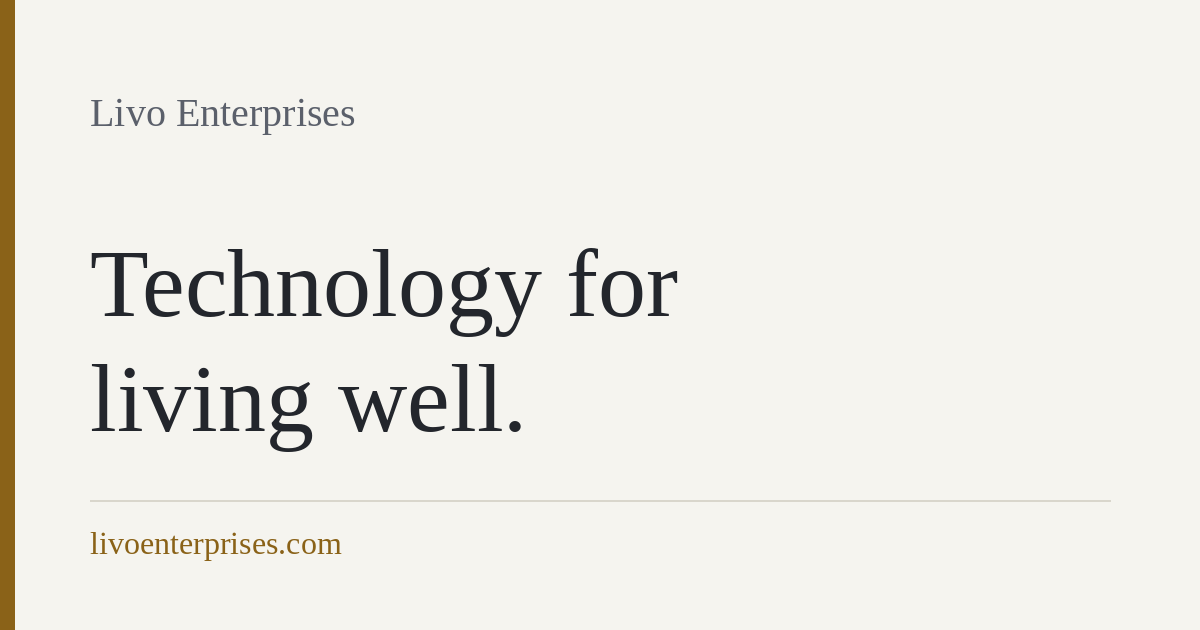
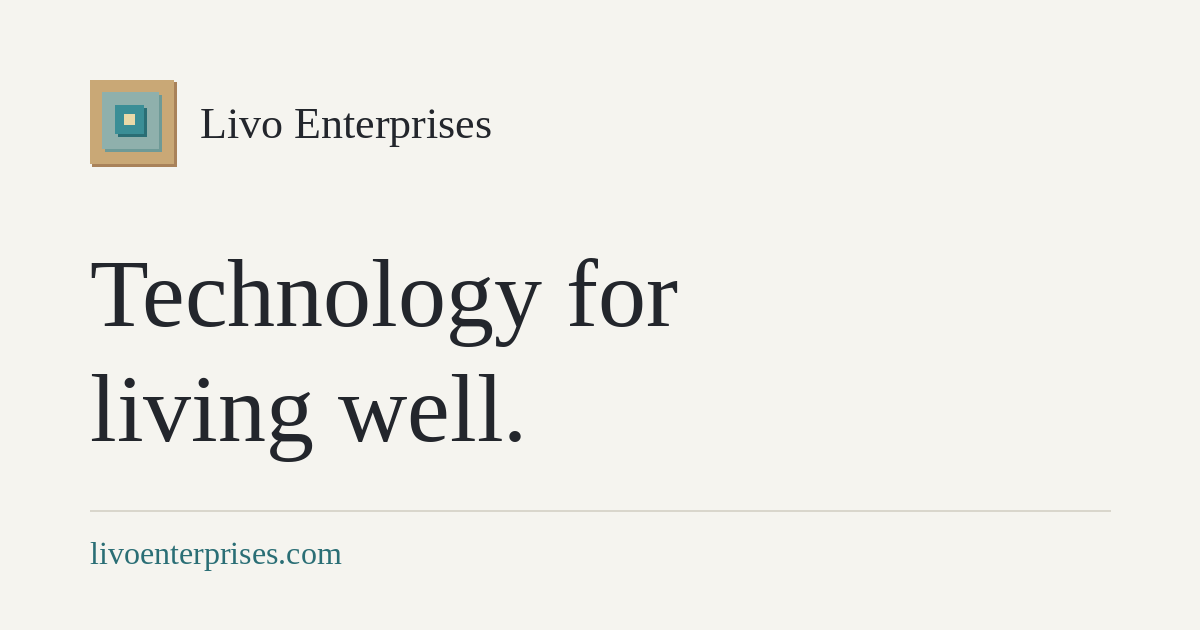
Add files via upload
Added Logo

diff --git a/index.html b/index.html
@@ -14,19 +14,21 @@
   <meta property="og:image" content="https://livoenterprises.com/assets/social-card.png">
   <meta name="twitter:card" content="summary_large_image">
   <link rel="icon" href="/assets/favicon.svg" type="image/svg+xml">
+  <link rel="icon" href="/assets/favicon-32.png" sizes="32x32" type="image/png">
+  <link rel="apple-touch-icon" href="/assets/apple-touch-icon.png">
   <link rel="alternate" type="application/rss+xml" title="Livo Enterprises — Notes" href="/feed.xml">
   <link rel="preconnect" href="https://fonts.googleapis.com">
   <link rel="preconnect" href="https://fonts.gstatic.com" crossorigin>
   <link href="https://fonts.googleapis.com/css2?family=Newsreader:ital,opsz,wght@0,6..72,400;0,6..72,500;1,6..72,400&display=swap" rel="stylesheet">
   <link rel="stylesheet" href="/assets/style.css">
   <script type="application/ld+json">
-  {"@context":"https://schema.org","@type":"Organization","name":"Livo Enterprises","legalName":"Livo Enterprises LLC","url":"https://livoenterprises.com","logo":"https://livoenterprises.com/assets/social-card.png","slogan":"Technology for living well","founder":{"@type":"Person","name":"Ken Jones"},"email":"support@livoenterprises.com"}
+  {"@context":"https://schema.org","@type":"Organization","name":"Livo Enterprises","legalName":"Livo Enterprises LLC","url":"https://livoenterprises.com","logo":"https://livoenterprises.com/assets/icon-512.png","slogan":"Technology for living well","founder":{"@type":"Person","name":"Ken Jones"},"email":"support@livoenterprises.com"}
   </script>
 </head>
 <body>
 <header class="site">
   <div class="wrap">
-    <a class="wordmark" href="/">Livo Enterprises</a>
+    <a class="wordmark" href="/"><img src="/assets/livo-mark.svg" alt="" width="26" height="26">Livo Enterprises</a>
     <nav class="site" aria-label="Site">
       <a href="/livocapsule.html">LivoCapsule</a>
       <a href="/about.html">About</a>

diff --git a/livocapsule.html b/livocapsule.html
@@ -14,6 +14,8 @@
   <meta property="og:image" content="https://livoenterprises.com/assets/social-card.png">
   <meta name="twitter:card" content="summary_large_image">
   <link rel="icon" href="/assets/favicon.svg" type="image/svg+xml">
+  <link rel="icon" href="/assets/favicon-32.png" sizes="32x32" type="image/png">
+  <link rel="apple-touch-icon" href="/assets/apple-touch-icon.png">
   <link rel="preconnect" href="https://fonts.googleapis.com">
   <link rel="preconnect" href="https://fonts.gstatic.com" crossorigin>
   <link href="https://fonts.googleapis.com/css2?family=Newsreader:ital,opsz,wght@0,6..72,400;0,6..72,500;1,6..72,400&display=swap" rel="stylesheet">
@@ -22,7 +24,7 @@
 <body>
 <header class="site">
   <div class="wrap">
-    <a class="wordmark" href="/">Livo Enterprises</a>
+    <a class="wordmark" href="/"><img src="/assets/livo-mark.svg" alt="" width="26" height="26">Livo Enterprises</a>
     <nav class="site" aria-label="Site">
       <a href="/livocapsule.html" aria-current="page">LivoCapsule</a>
       <a href="/about.html">About</a>

diff --git a/privacy.html b/privacy.html
@@ -14,6 +14,8 @@
   <meta property="og:image" content="https://livoenterprises.com/assets/social-card.png">
   <meta name="twitter:card" content="summary_large_image">
   <link rel="icon" href="/assets/favicon.svg" type="image/svg+xml">
+  <link rel="icon" href="/assets/favicon-32.png" sizes="32x32" type="image/png">
+  <link rel="apple-touch-icon" href="/assets/apple-touch-icon.png">
   <link rel="preconnect" href="https://fonts.googleapis.com">
   <link rel="preconnect" href="https://fonts.gstatic.com" crossorigin>
   <link href="https://fonts.googleapis.com/css2?family=Newsreader:ital,opsz,wght@0,6..72,400;0,6..72,500;1,6..72,400&display=swap" rel="stylesheet">
@@ -22,7 +24,7 @@
 <body>
 <header class="site">
   <div class="wrap">
-    <a class="wordmark" href="/">Livo Enterprises</a>
+    <a class="wordmark" href="/"><img src="/assets/livo-mark.svg" alt="" width="26" height="26">Livo Enterprises</a>
     <nav class="site" aria-label="Site">
       <a href="/livocapsule.html">LivoCapsule</a>
       <a href="/about.html">About</a>

diff --git a/support.html b/support.html
@@ -14,6 +14,8 @@
   <meta property="og:image" content="https://livoenterprises.com/assets/social-card.png">
   <meta name="twitter:card" content="summary_large_image">
   <link rel="icon" href="/assets/favicon.svg" type="image/svg+xml">
+  <link rel="icon" href="/assets/favicon-32.png" sizes="32x32" type="image/png">
+  <link rel="apple-touch-icon" href="/assets/apple-touch-icon.png">
   <link rel="preconnect" href="https://fonts.googleapis.com">
   <link rel="preconnect" href="https://fonts.gstatic.com" crossorigin>
   <link href="https://fonts.googleapis.com/css2?family=Newsreader:ital,opsz,wght@0,6..72,400;0,6..72,500;1,6..72,400&display=swap" rel="stylesheet">
@@ -22,7 +24,7 @@
 <body>
 <header class="site">
   <div class="wrap">
-    <a class="wordmark" href="/">Livo Enterprises</a>
+    <a class="wordmark" href="/"><img src="/assets/livo-mark.svg" alt="" width="26" height="26">Livo Enterprises</a>
     <nav class="site" aria-label="Site">
       <a href="/livocapsule.html">LivoCapsule</a>
       <a href="/about.html">About</a>

diff --git a/about.html b/about.html
@@ -14,6 +14,8 @@
   <meta property="og:image" content="https://livoenterprises.com/assets/social-card.png">
   <meta name="twitter:card" content="summary_large_image">
   <link rel="icon" href="/assets/favicon.svg" type="image/svg+xml">
+  <link rel="icon" href="/assets/favicon-32.png" sizes="32x32" type="image/png">
+  <link rel="apple-touch-icon" href="/assets/apple-touch-icon.png">
   <link rel="alternate" type="application/rss+xml" title="Livo Enterprises — Notes" href="/feed.xml">
   <link rel="preconnect" href="https://fonts.googleapis.com">
   <link rel="preconnect" href="https://fonts.gstatic.com" crossorigin>
@@ -23,7 +25,7 @@
 <body>
 <header class="site">
   <div class="wrap">
-    <a class="wordmark" href="/">Livo Enterprises</a>
+    <a class="wordmark" href="/"><img src="/assets/livo-mark.svg" alt="" width="26" height="26">Livo Enterprises</a>
     <nav class="site" aria-label="Site">
       <a href="/livocapsule.html">LivoCapsule</a>
       <a href="/about.html" aria-current="page">About</a>

diff --git a/blog/index.html b/blog/index.html
@@ -14,6 +14,8 @@
   <meta property="og:image" content="https://livoenterprises.com/assets/social-card.png">
   <meta name="twitter:card" content="summary_large_image">
   <link rel="icon" href="/assets/favicon.svg" type="image/svg+xml">
+  <link rel="icon" href="/assets/favicon-32.png" sizes="32x32" type="image/png">
+  <link rel="apple-touch-icon" href="/assets/apple-touch-icon.png">
   <link rel="alternate" type="application/rss+xml" title="Livo Enterprises — Notes" href="/feed.xml">
   <link rel="preconnect" href="https://fonts.googleapis.com">
   <link rel="preconnect" href="https://fonts.gstatic.com" crossorigin>
@@ -23,7 +25,7 @@
 <body>
 <header class="site">
   <div class="wrap">
-    <a class="wordmark" href="/">Livo Enterprises</a>
+    <a class="wordmark" href="/"><img src="/assets/livo-mark.svg" alt="" width="26" height="26">Livo Enterprises</a>
     <nav class="site" aria-label="Site">
       <a href="/livocapsule.html">LivoCapsule</a>
       <a href="/about.html">About</a>

diff --git a/blog/post-template.html b/blog/post-template.html
@@ -15,6 +15,8 @@
   <meta property="og:image" content="https://livoenterprises.com/assets/social-card.png">
   <meta name="twitter:card" content="summary_large_image">
   <link rel="icon" href="/assets/favicon.svg" type="image/svg+xml">
+  <link rel="icon" href="/assets/favicon-32.png" sizes="32x32" type="image/png">
+  <link rel="apple-touch-icon" href="/assets/apple-touch-icon.png">
   <link rel="alternate" type="application/rss+xml" title="Livo Enterprises — Notes" href="/feed.xml">
   <link rel="preconnect" href="https://fonts.googleapis.com">
   <link rel="preconnect" href="https://fonts.gstatic.com" crossorigin>
@@ -27,7 +29,7 @@
 <body>
 <header class="site">
   <div class="wrap">
-    <a class="wordmark" href="/">Livo Enterprises</a>
+    <a class="wordmark" href="/"><img src="/assets/livo-mark.svg" alt="" width="26" height="26">Livo Enterprises</a>
     <nav class="site" aria-label="Site">
       <a href="/livocapsule.html">LivoCapsule</a>
       <a href="/about.html">About</a>

diff --git a/blog/the-thread.html b/blog/the-thread.html
@@ -14,6 +14,8 @@
   <meta property="og:image" content="https://livoenterprises.com/assets/social-card.png">
   <meta name="twitter:card" content="summary_large_image">
   <link rel="icon" href="/assets/favicon.svg" type="image/svg+xml">
+  <link rel="icon" href="/assets/favicon-32.png" sizes="32x32" type="image/png">
+  <link rel="apple-touch-icon" href="/assets/apple-touch-icon.png">
   <link rel="alternate" type="application/rss+xml" title="Livo Enterprises — Notes" href="/feed.xml">
   <link rel="preconnect" href="https://fonts.googleapis.com">
   <link rel="preconnect" href="https://fonts.gstatic.com" crossorigin>
@@ -26,7 +28,7 @@
 <body>
 <header class="site">
   <div class="wrap">
-    <a class="wordmark" href="/">Livo Enterprises</a>
+    <a class="wordmark" href="/"><img src="/assets/livo-mark.svg" alt="" width="26" height="26">Livo Enterprises</a>
     <nav class="site" aria-label="Site">
       <a href="/livocapsule.html">LivoCapsule</a>
       <a href="/about.html">About</a>

diff --git a/404.html b/404.html
@@ -5,13 +5,15 @@
   <meta name="viewport" content="width=device-width, initial-scale=1">
   <title>Not found — Livo Enterprises</title>
   <link rel="icon" href="/assets/favicon.svg" type="image/svg+xml">
+  <link rel="icon" href="/assets/favicon-32.png" sizes="32x32" type="image/png">
+  <link rel="apple-touch-icon" href="/assets/apple-touch-icon.png">
   <link href="https://fonts.googleapis.com/css2?family=Newsreader:ital,opsz,wght@0,6..72,400;0,6..72,500;1,6..72,400&display=swap" rel="stylesheet">
   <link rel="stylesheet" href="/assets/style.css">
 </head>
 <body>
 <header class="site">
   <div class="wrap">
-    <a class="wordmark" href="/">Livo Enterprises</a>
+    <a class="wordmark" href="/"><img src="/assets/livo-mark.svg" alt="" width="26" height="26">Livo Enterprises</a>
     <nav class="site" aria-label="Site">
       <a href="/livocapsule.html">LivoCapsule</a>
       <a href="/about.html">About</a>

diff --git a/assets/style.css b/assets/style.css
@@ -206,3 +206,8 @@ article.post h2 { font-size: 1.4rem; margin-top: 2.6rem; }
 article.post li { margin-bottom: 0.7rem; }
 .topics { margin-top: 2.6rem; color: var(--ink-soft); font-size: 0.92rem; font-style: italic; }
 @media (max-width: 40rem) { article.post h1 { font-size: 1.7rem; } }
+
+/* Livo mark in the header */
+.wordmark { display: inline-flex; align-items: center; gap: 0.55rem; }
+.wordmark img { display: block; width: 1.5rem; height: 1.5rem; }
+header.site .wrap { align-items: center; }
